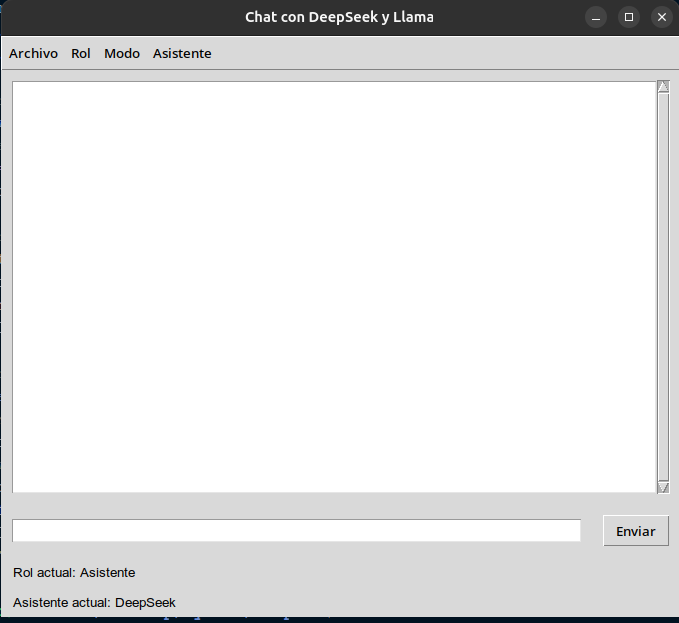
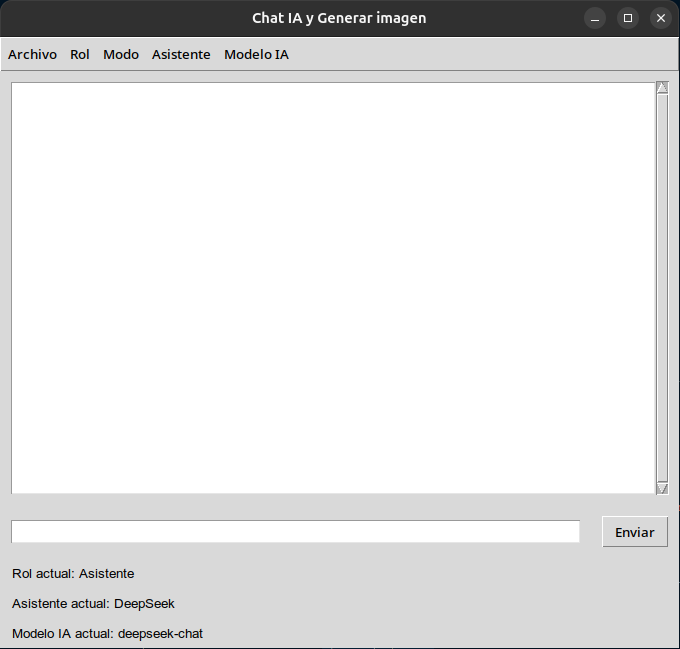
actualizacion de la documentacion

Changed region(s): [[0.0, 0.0, 1.0, 1.0]]

diff --git a/main.py b/main.py
@@ -198,7 +198,7 @@ def cambiar_modeloIA(modeloIA):
     global system_modelIA
     system_modelIA = modeloIA  # Actualizar el modelo de IA actual
     etiqueta_modeloIA.config(text=f"Modelo IA actual: {modeloIA}")  # Actualizar la etiqueta en la interfaz
-    actualizar_menu_modeloIA(modeloIA)
+    actualizar_menu_modeloIA()
     print(f"Modelo IA cambiado a: {modeloIA}")  # Opcional: Imprimir el modelo seleccionado
 
 # Función para cambiar el asistente virtual
@@ -216,7 +216,7 @@ def cambiar_asistente(asistente):
     else:
         cambiar_modeloIA("gemini-2.0-flash")
 
-def actualizar_menu_modeloIA(modeloIA):
+def actualizar_menu_modeloIA():
     menu_modeloIA.delete(0, tk.END)  # Limpiar el menú existente
 
     if asistente_actual == "DeepSeek":

diff --git a/README.md b/README.md
@@ -9,11 +9,11 @@ Este proyecto permite interactuar con las APIs de **DeepSeek** y **Llama** para 
 Antes de comenzar, asegúrate de tener lo siguiente:
 
 1. **Claves de API**:
-   - Obtén una clave de API de [Llama](https://console.llamaapi.com/en/dashboard).
-   - Obtén una clave de API de [DeepSeek](https://platform.deepseek.com/usage).
-
+    - Obtén una clave de API de [Llama](https://console.llamaapi.com/en/dashboard).
+    - Obtén una clave de API de [DeepSeek](https://platform.deepseek.com/usage).
+    - Obtén una clave de API de [Gemini](https://ai.google.dev/gemini-api/docs/api-key).
 2. **Python**:
-   - Asegúrate de tener Python instalado (versión 3.7 o superior).
+    - Asegúrate de tener Python instalado (versión 3.7 o superior).
 
 ---
 ## 🛠 Configuración del proyecto
@@ -25,6 +25,7 @@ Antes de comenzar, asegúrate de tener lo siguiente:
    # Api_Keys.py
    api_key_deepseek = "Tu_key_API_DeepSeek"
    api_key_llama = "Tu_key_API_Llama"
+   api_key_gemini = "Tu_key_API_Gemini"
    ```
 ---
 ## 🖥 Se recomienda usar un .env para instalar las librerias
@@ -78,6 +79,14 @@ Antes de comenzar, asegúrate de tener lo siguiente:
     Permite cambiar entre las dos IA
     - **DeepSeek**
     - **Llama**
+    - **Gemini**
+
+- **Modelo IA**
+    - Dependiendo el Asistente seleccionado los modelos disponibles
+
+> Para generar imagenes debemos seleccionar el Asistente "Gemini"
+> luego en Modelo IA "Generador de imagen"
+> describe la imagen que quieres generar y pulse "Enviar"
 ---
 ### **Menu inferior**
 - **Entrada de texto**
@@ -93,6 +102,8 @@ Antes de comenzar, asegúrate de tener lo siguiente:
 
 >Asistente actual: **muestra el nombre de IA activa**
 
+>Modelo IA: **Modelo de IA activa**
+
 ---
 ##  🔧 Perzonalizar el codigo
 
@@ -101,19 +112,30 @@ Antes de comenzar, asegúrate de tener lo siguiente:
 ### **1.a. Crear nuevos Roles**
     roles = {
         "Asistente": "You are a helpful assistant",
-        "Filósofo": "Eres un filósofo experto en ética y filosofía moderna.",
-        "Programador": "Eres un programador experto en Python y desarrollo de software.",
-        "Historiador": "Eres un historiador especializado en la historia del siglo XX.",
+        "Filósofo": "Eres un filósofo experto en ética y filosofía moderna. ...",
+        "Programador": "Eres un programador experto en Python y desarrollo de software. ...",
+        "Historiador": "Eres un historiador especializado en la historia del siglo XX. ...",
     }
 >Vemos que la variable roles es un diccionario donde la calve es el nombre del rol
 >y el valor es como se debe comportar. siguiendo dicho formato podemos crear todos los roles que quisieramos
 
     roles = {
         "Asistente": "You are a helpful assistant",
-        "Filósofo": "Eres un filósofo experto en ética y filosofía moderna.",
-        "Programador": "Eres un programador experto en Python y desarrollo de software.",
-        "Historiador": "Eres un historiador especializado en la historia del siglo XX.",
-        "Nuevo rol": "Aqui agregamos el tema del cual es 'especialista'",
+        "Filósofo": "Eres un filósofo experto en ética y filosofía moderna. ...",
+        "Programador": "Eres un programador experto en Python y desarrollo de software. ...",
+        "Historiador": "Eres un historiador especializado en la historia del siglo XX. ...",
+        "Nuevo rol": "Aqui agregamos el tema del cual es 'especialista' ...",
     }
 > ⚠ **¡Atención!** 
 > Es necesario agregarlo tambien en menu_rol para que asi aparezca el nuevo rol en el menu desplegable
+
+### **2. def actualizar_menu_modeloIA()**
+    Ejemplo de como agregar un nuevo modeloIA
+
+    menu_modeloIA.add_command(label="llama3.1-8b", command=lambda: cambiar_modeloIA("llama3.1-8b"))
+    label = "texto que aparece en el menu desplegable" 
+    cambiar_modeloIA = "Modelo de la IA extraido de la documentacion de cada API"
+
+> ⚠ **¡Atención!** 
+> Cada menu_modeloIA se tiene que agregar en cada IF de la IA correspondiente
+> Para que funcione y que aparezca en la lista de Modelos IA de la interfaz
